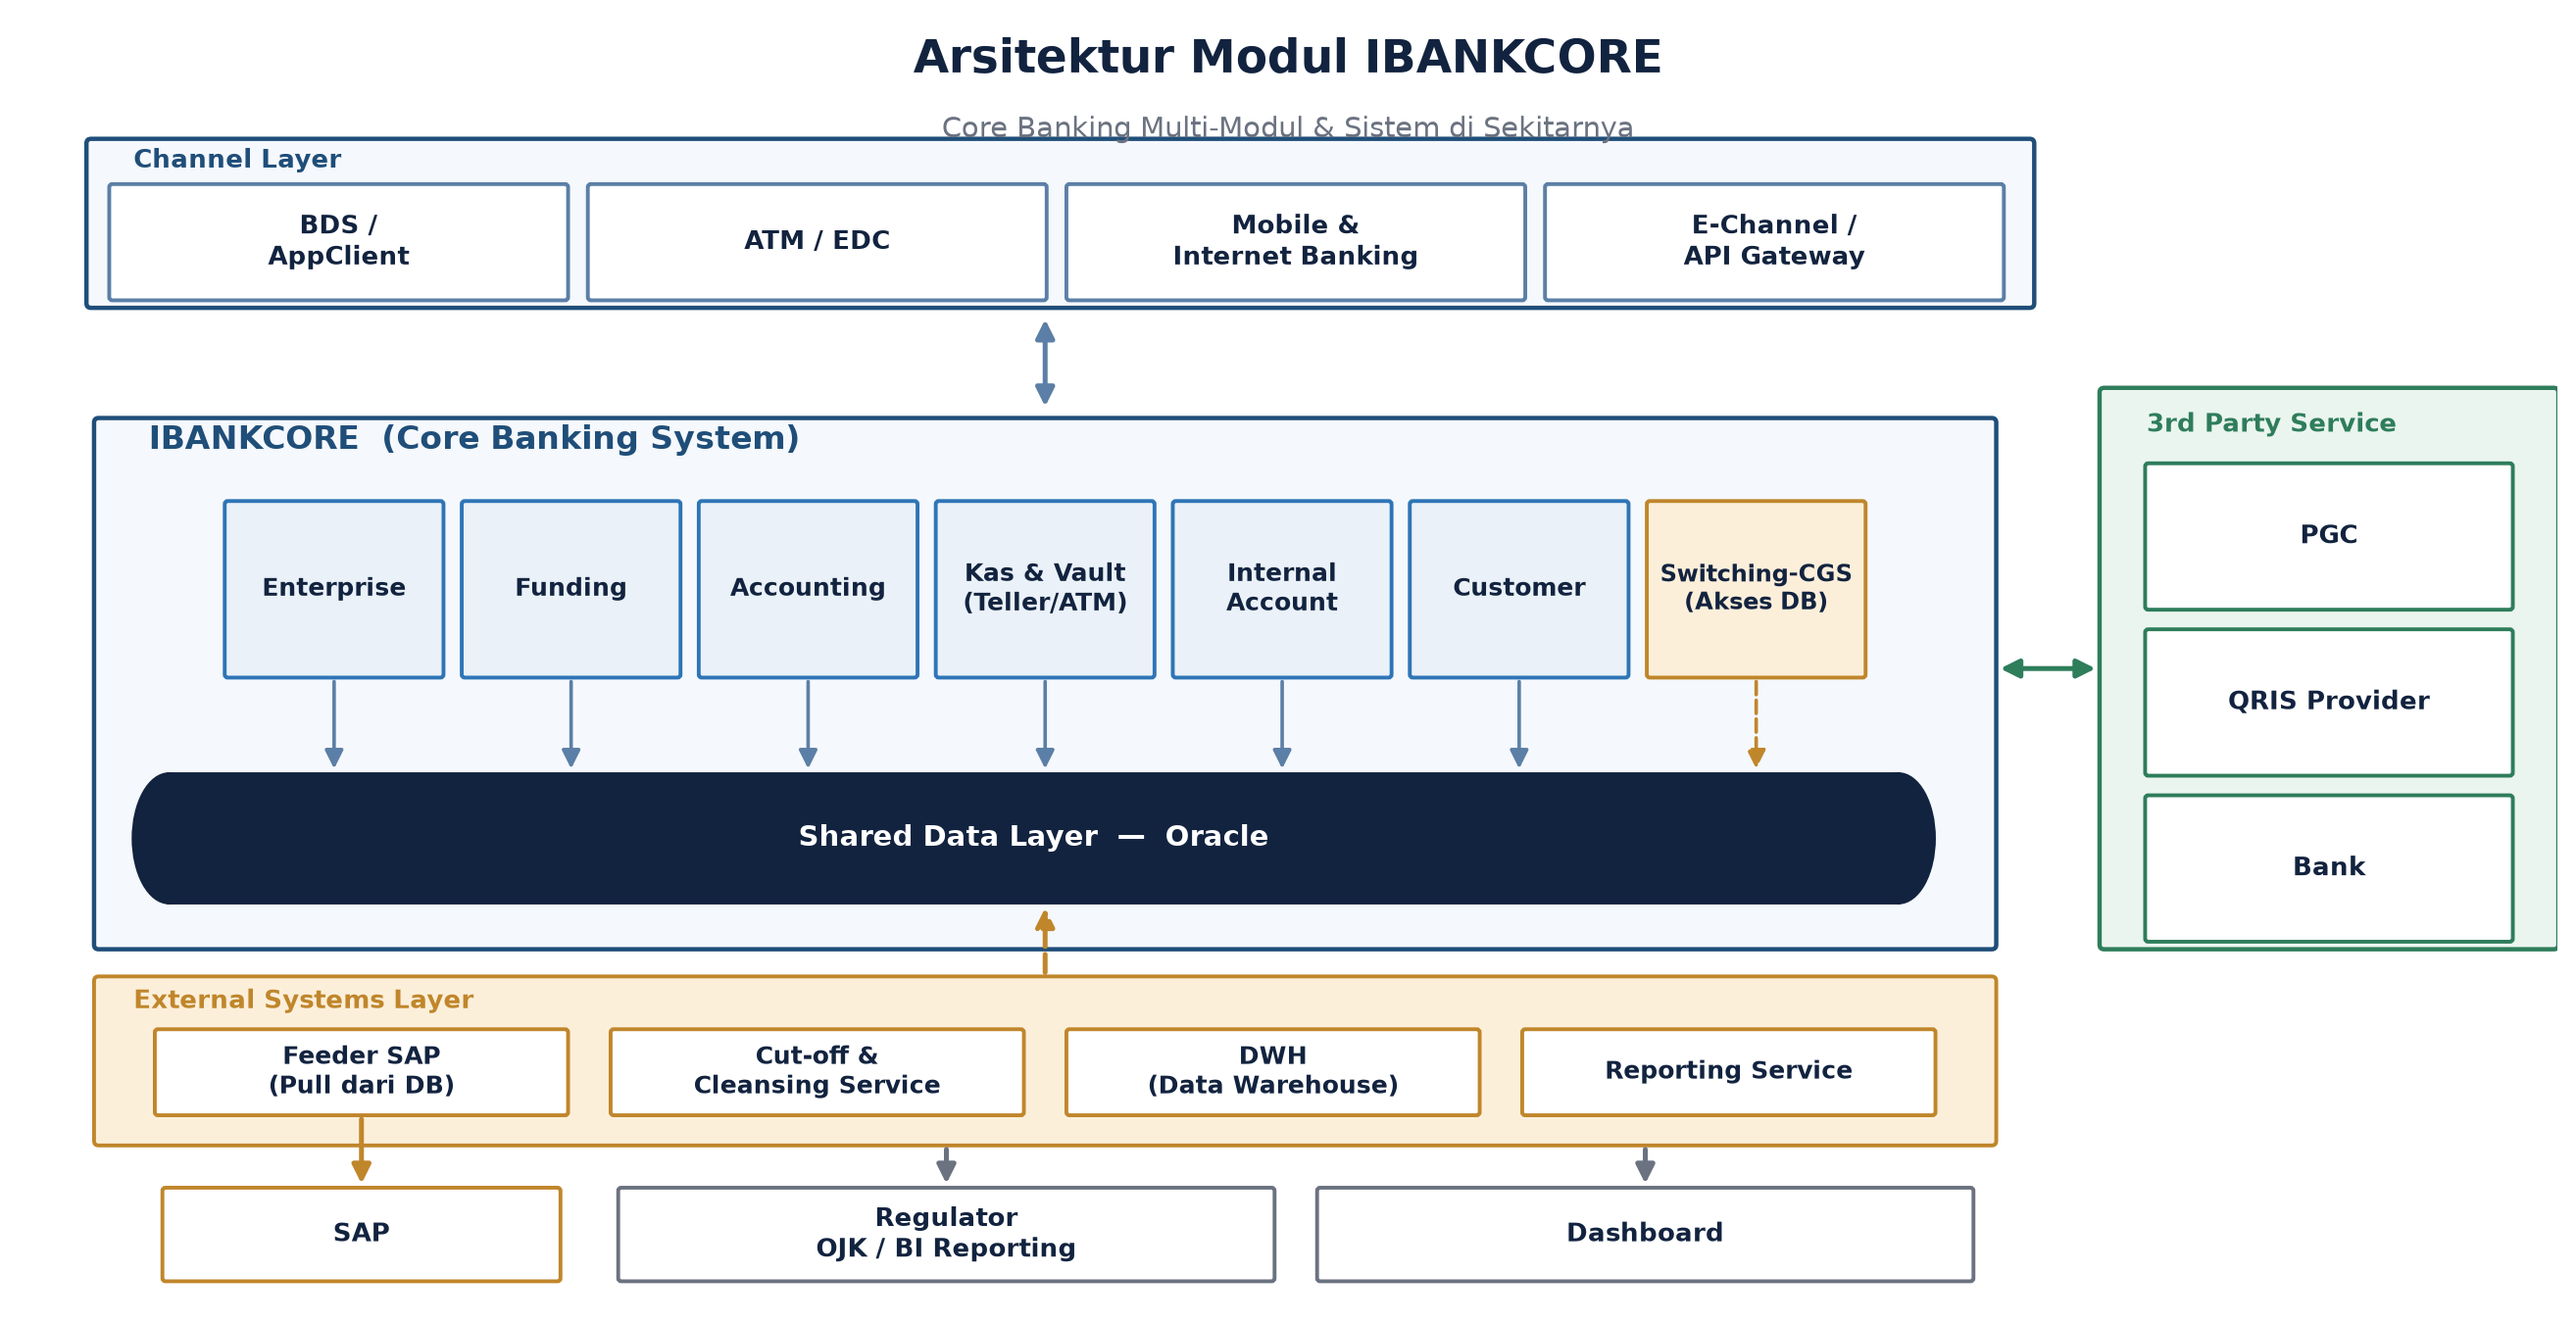
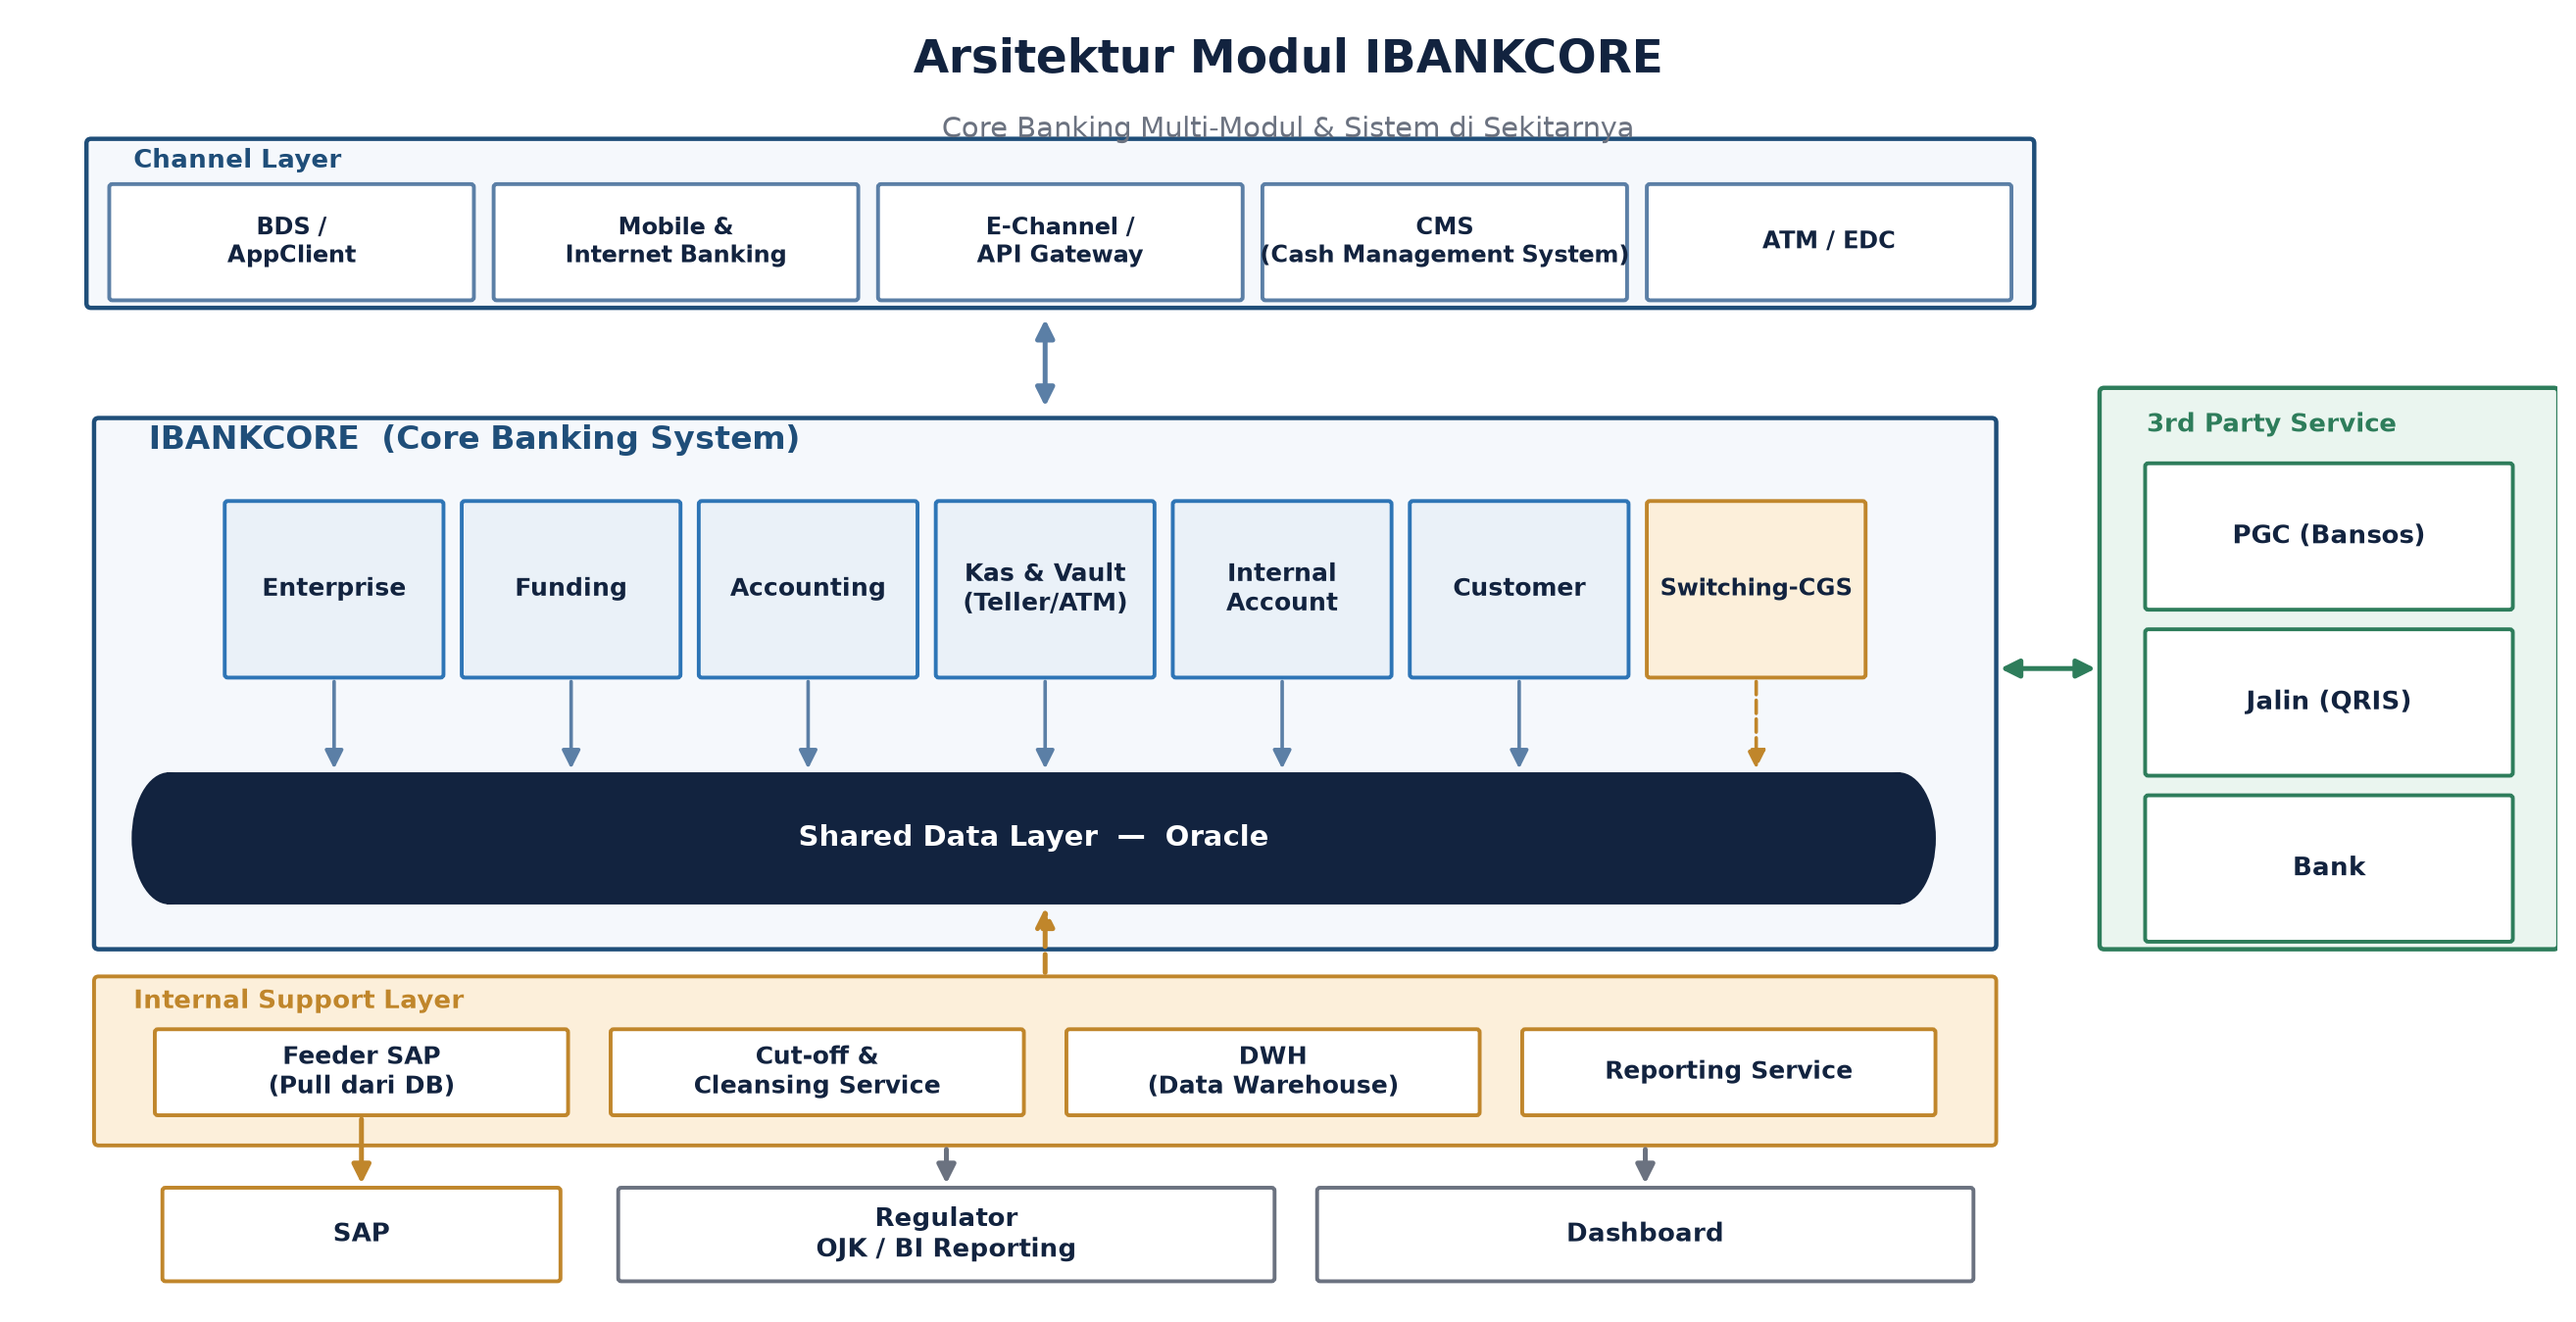
Add 3rd Party Service layer and rename Internal Support Layer
Add a "3rd Party Service" band to the right of the IBANKCORE envelope
(PGC/Bansos, Jalin/QRIS, Bank) with a single bidirectional connection
line, and rename "External Systems Layer" to "Internal Support Layer"
to better reflect that Feeder SAP, Cut-off & Cleansing Service, DWH,
and Reporting Service are internal supporting components rather than
external systems. Also expand the Channel Layer with CMS as a channel
and rebalance box widths.

diff --git a/deployments/cgs-pos/make_diagrams.py b/deployments/cgs-pos/make_diagrams.py
@@ -80,11 +80,11 @@ ax.text(8.35, 7.72, "Core Banking Multi-Modul & Sistem di Sekitarnya", ha="cente
 box(ax, 0.45, 6.6, 12.8, 1.1, "", fc="#F5F8FC", ec=BLUE, lw=1.6, radius=0.03)
 ax.text(0.75, 7.65, "Channel Layer", fontsize=9.5, fontweight="bold", color=BLUE, va="top")
 
-channels = ["BDS /\nAppClient", "ATM / EDC", "Mobile &\nInternet Banking", "E-Channel /\nAPI Gateway"]
+channels = ["BDS /\nAppClient", "Mobile &\nInternet Banking", "E-Channel /\nAPI Gateway", "CMS\n(Cash Management System)", "ATM / EDC"]
 cx = 0.6
-cw = 3.0
+cw = 2.38
 for i, c in enumerate(channels):
-    box(ax, cx + i * (cw + 0.15), 6.65, cw, 0.75, c, fc=WHITE, ec=STEEL, tc=NAVY, fs=9.5)
+    box(ax, cx + i * (cw + 0.15), 6.65, cw, 0.75, c, fc=WHITE, ec=STEEL, tc=NAVY, fs=8.5)
 
 arrow(ax, (6.75, 6.55), (6.75, 5.9), color=STEEL, style="<|-|>")
 
@@ -96,7 +96,7 @@ modules = [
     "Enterprise", "Funding", "Accounting",
     "Kas & Vault\n(Teller/ATM)", "Internal\nAccount", "Customer"
 ]
-switching_label = "Switching-CGS\n(Akses DB)"
+switching_label = "Switching-CGS"
 mw, mh = 1.42, 1.15
 gap = 0.14
 row_w = (len(modules) + 1) * mw + len(modules) * gap
@@ -126,7 +126,7 @@ tp_bottom, tp_height = 2.35, 3.7
 box(ax, tp_x, tp_bottom, tp_w, tp_height, "", fc="#EAF5EF", ec=GREEN, lw=1.6, radius=0.03)
 ax.text(tp_x + 0.3, tp_bottom + tp_height - 0.15, "3rd Party Service", fontsize=9.5, fontweight="bold", color=GREEN, va="top")
 
-tp_items = ["PGC", "QRIS Provider", "Bank"]
+tp_items = ["PGC (Bansos)", "Jalin (QRIS)", "Bank"]
 tp_item_w, tp_item_h = 2.4, 0.95
 tp_item_gap = 0.15
 tp_item_x = tp_x + (tp_w - tp_item_w) / 2
@@ -137,15 +137,15 @@ for i, label in enumerate(tp_items):
 
 arrow(ax, (tp_x, tp_bottom + tp_height / 2), (envelope_x + envelope_w, tp_bottom + tp_height / 2), color=GREEN, style="<|-|>")
 
-# External Systems Layer (selebar IBANKCORE): Feeder SAP (pull dari DB), Cut-off/Cleansing,
+# Internal Support Layer (selebar IBANKCORE): Feeder SAP (pull dari DB), Cut-off/Cleansing,
 # DWH, Reporting Service — kotak independen tanpa garis relasi antar-sesama.
 # Feeder SAP -> SAP (sistem tujuan feed) digambar terpisah di baris paling bawah.
-# Laporan ke Regulator berasal dari kotak External Systems Layer (bukan dari sub-servicenya),
+# Laporan ke Regulator berasal dari kotak Internal Support Layer (bukan dari sub-servicenya),
 # sedangkan Dashboard tetap disuplai dari DWH.
 ext_x, ext_w = envelope_x, envelope_w
 ext_bottom, ext_height = 1.05, 1.1
 box(ax, ext_x, ext_bottom, ext_w, ext_height, "", fc="#FCEFDA", ec=ACCENT, lw=1.4, radius=0.03)
-ax.text(0.75, 2.08, "External Systems Layer", fontsize=9.5, fontweight="bold", color=ACCENT, va="top")
+ax.text(0.75, 2.08, "Internal Support Layer", fontsize=9.5, fontweight="bold", color=ACCENT, va="top")
 
 ext_items = [
     "Feeder SAP\n(Pull dari DB)",
